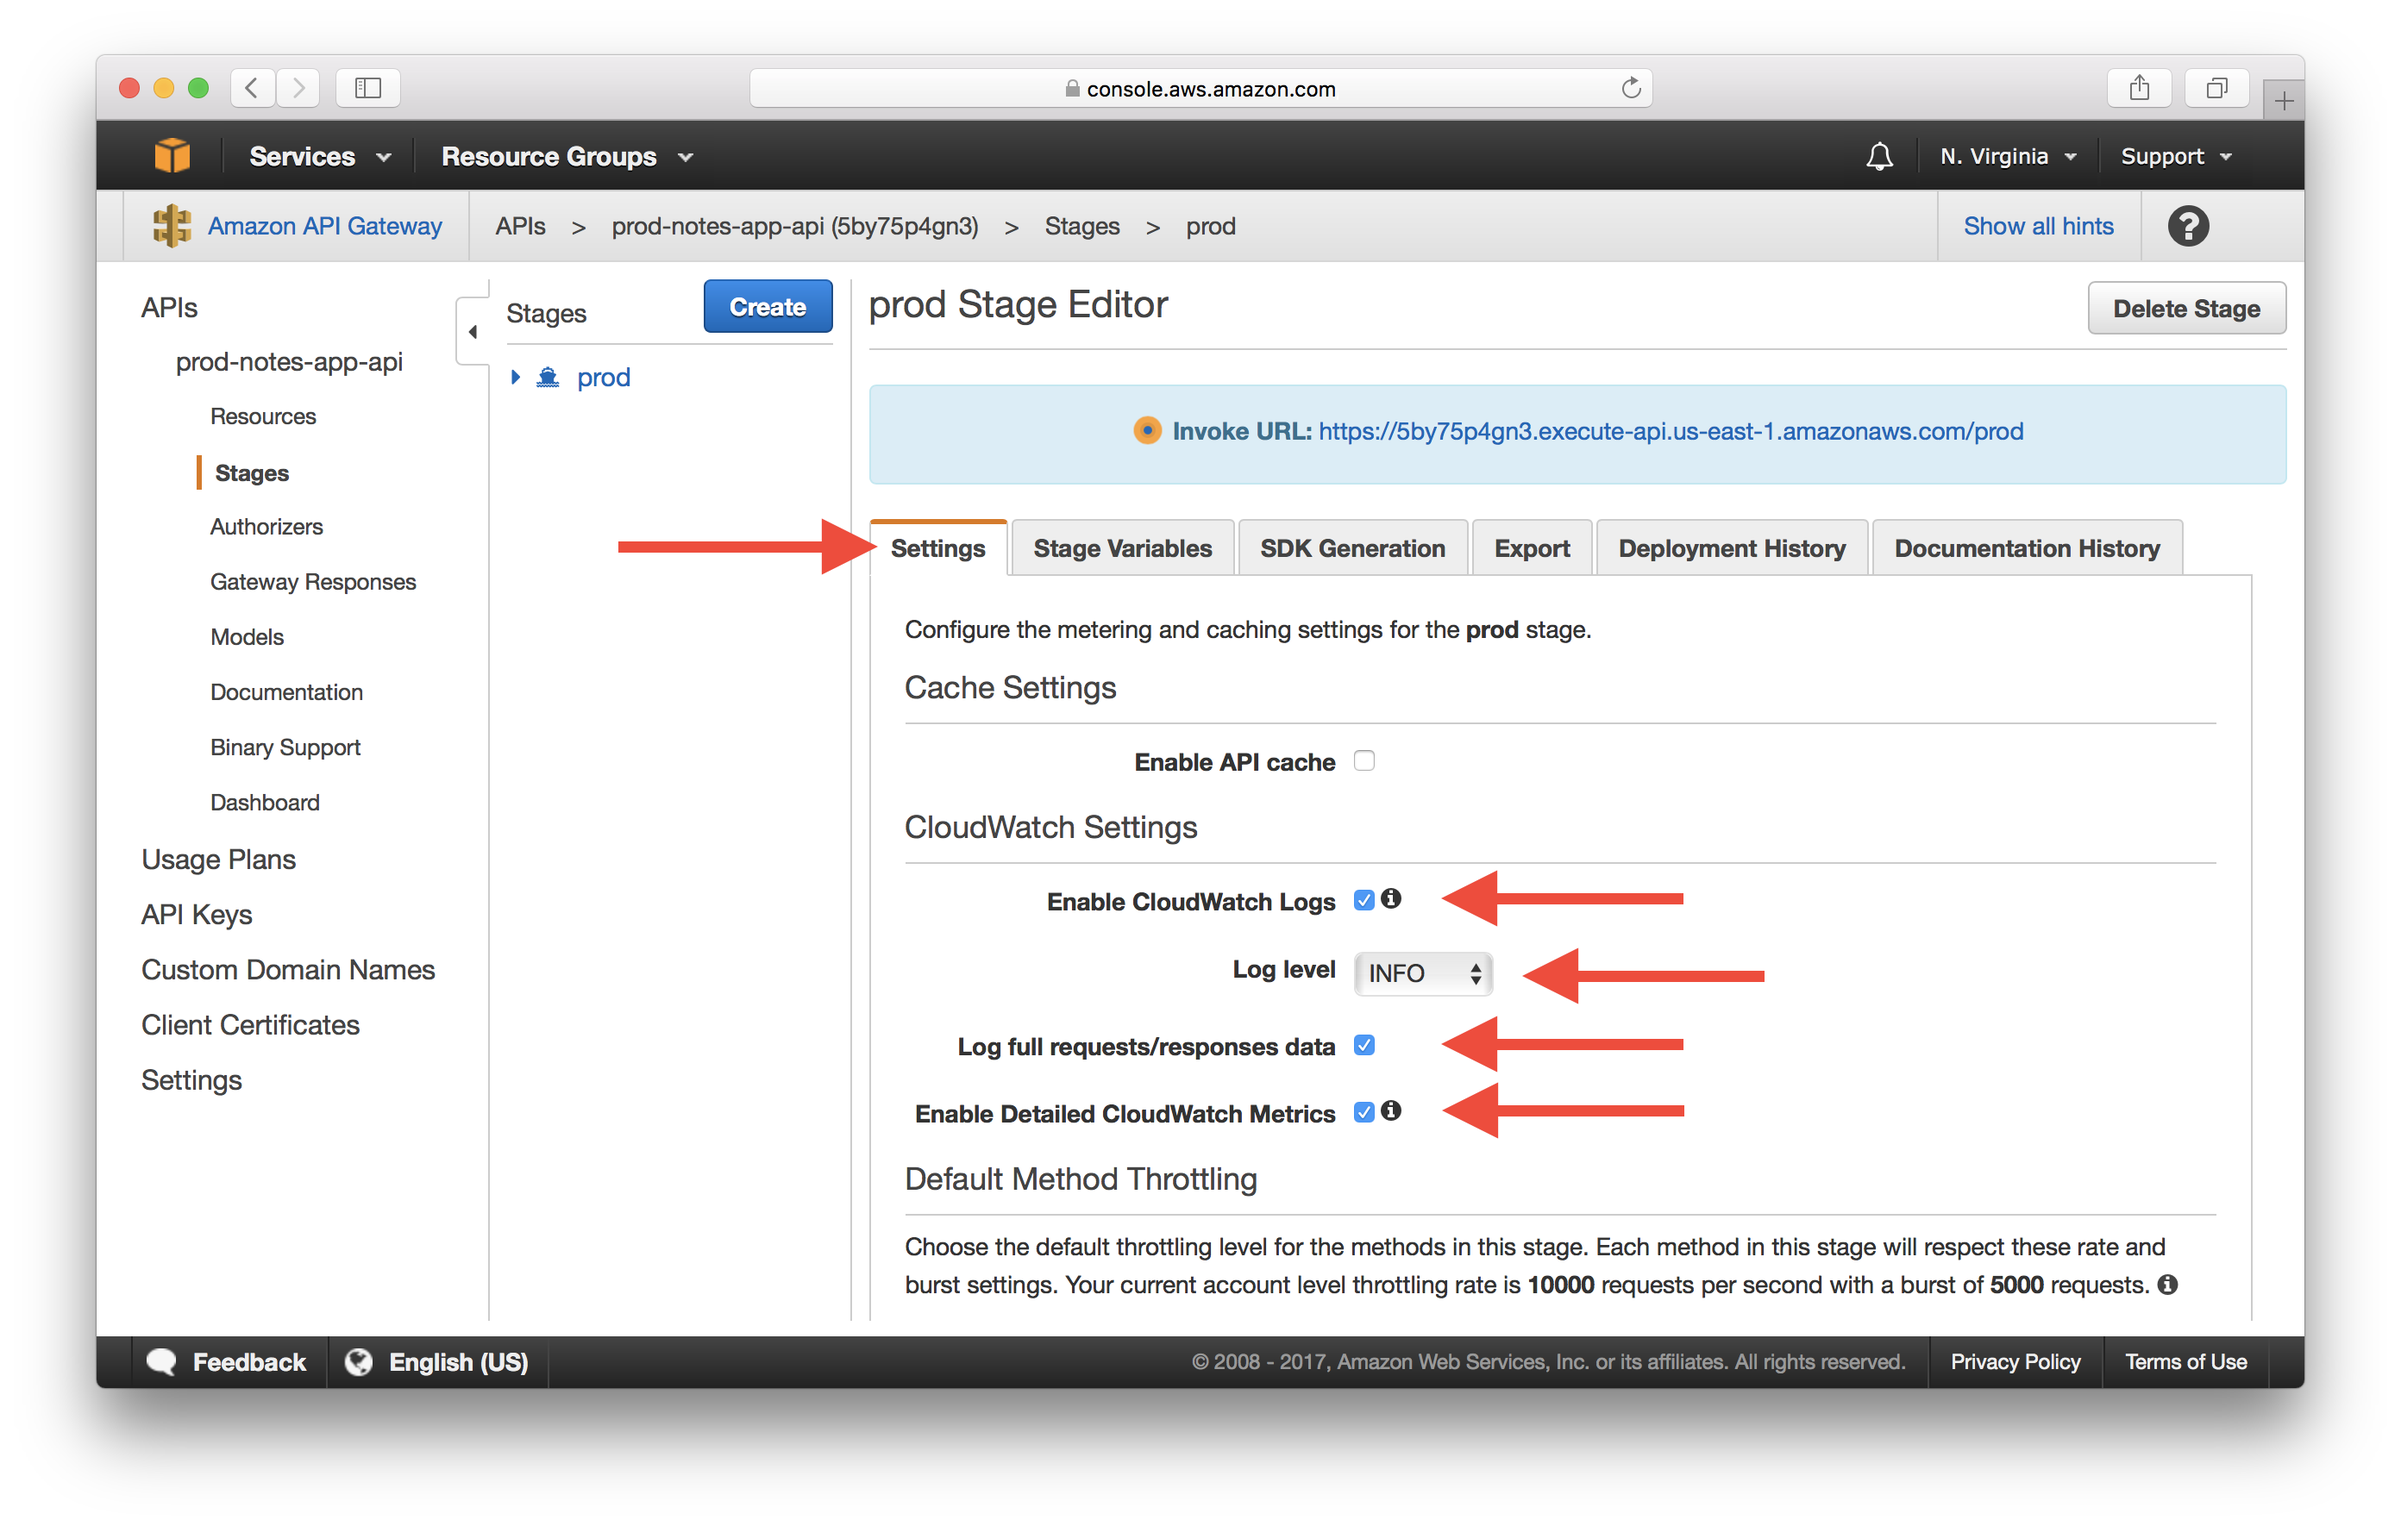
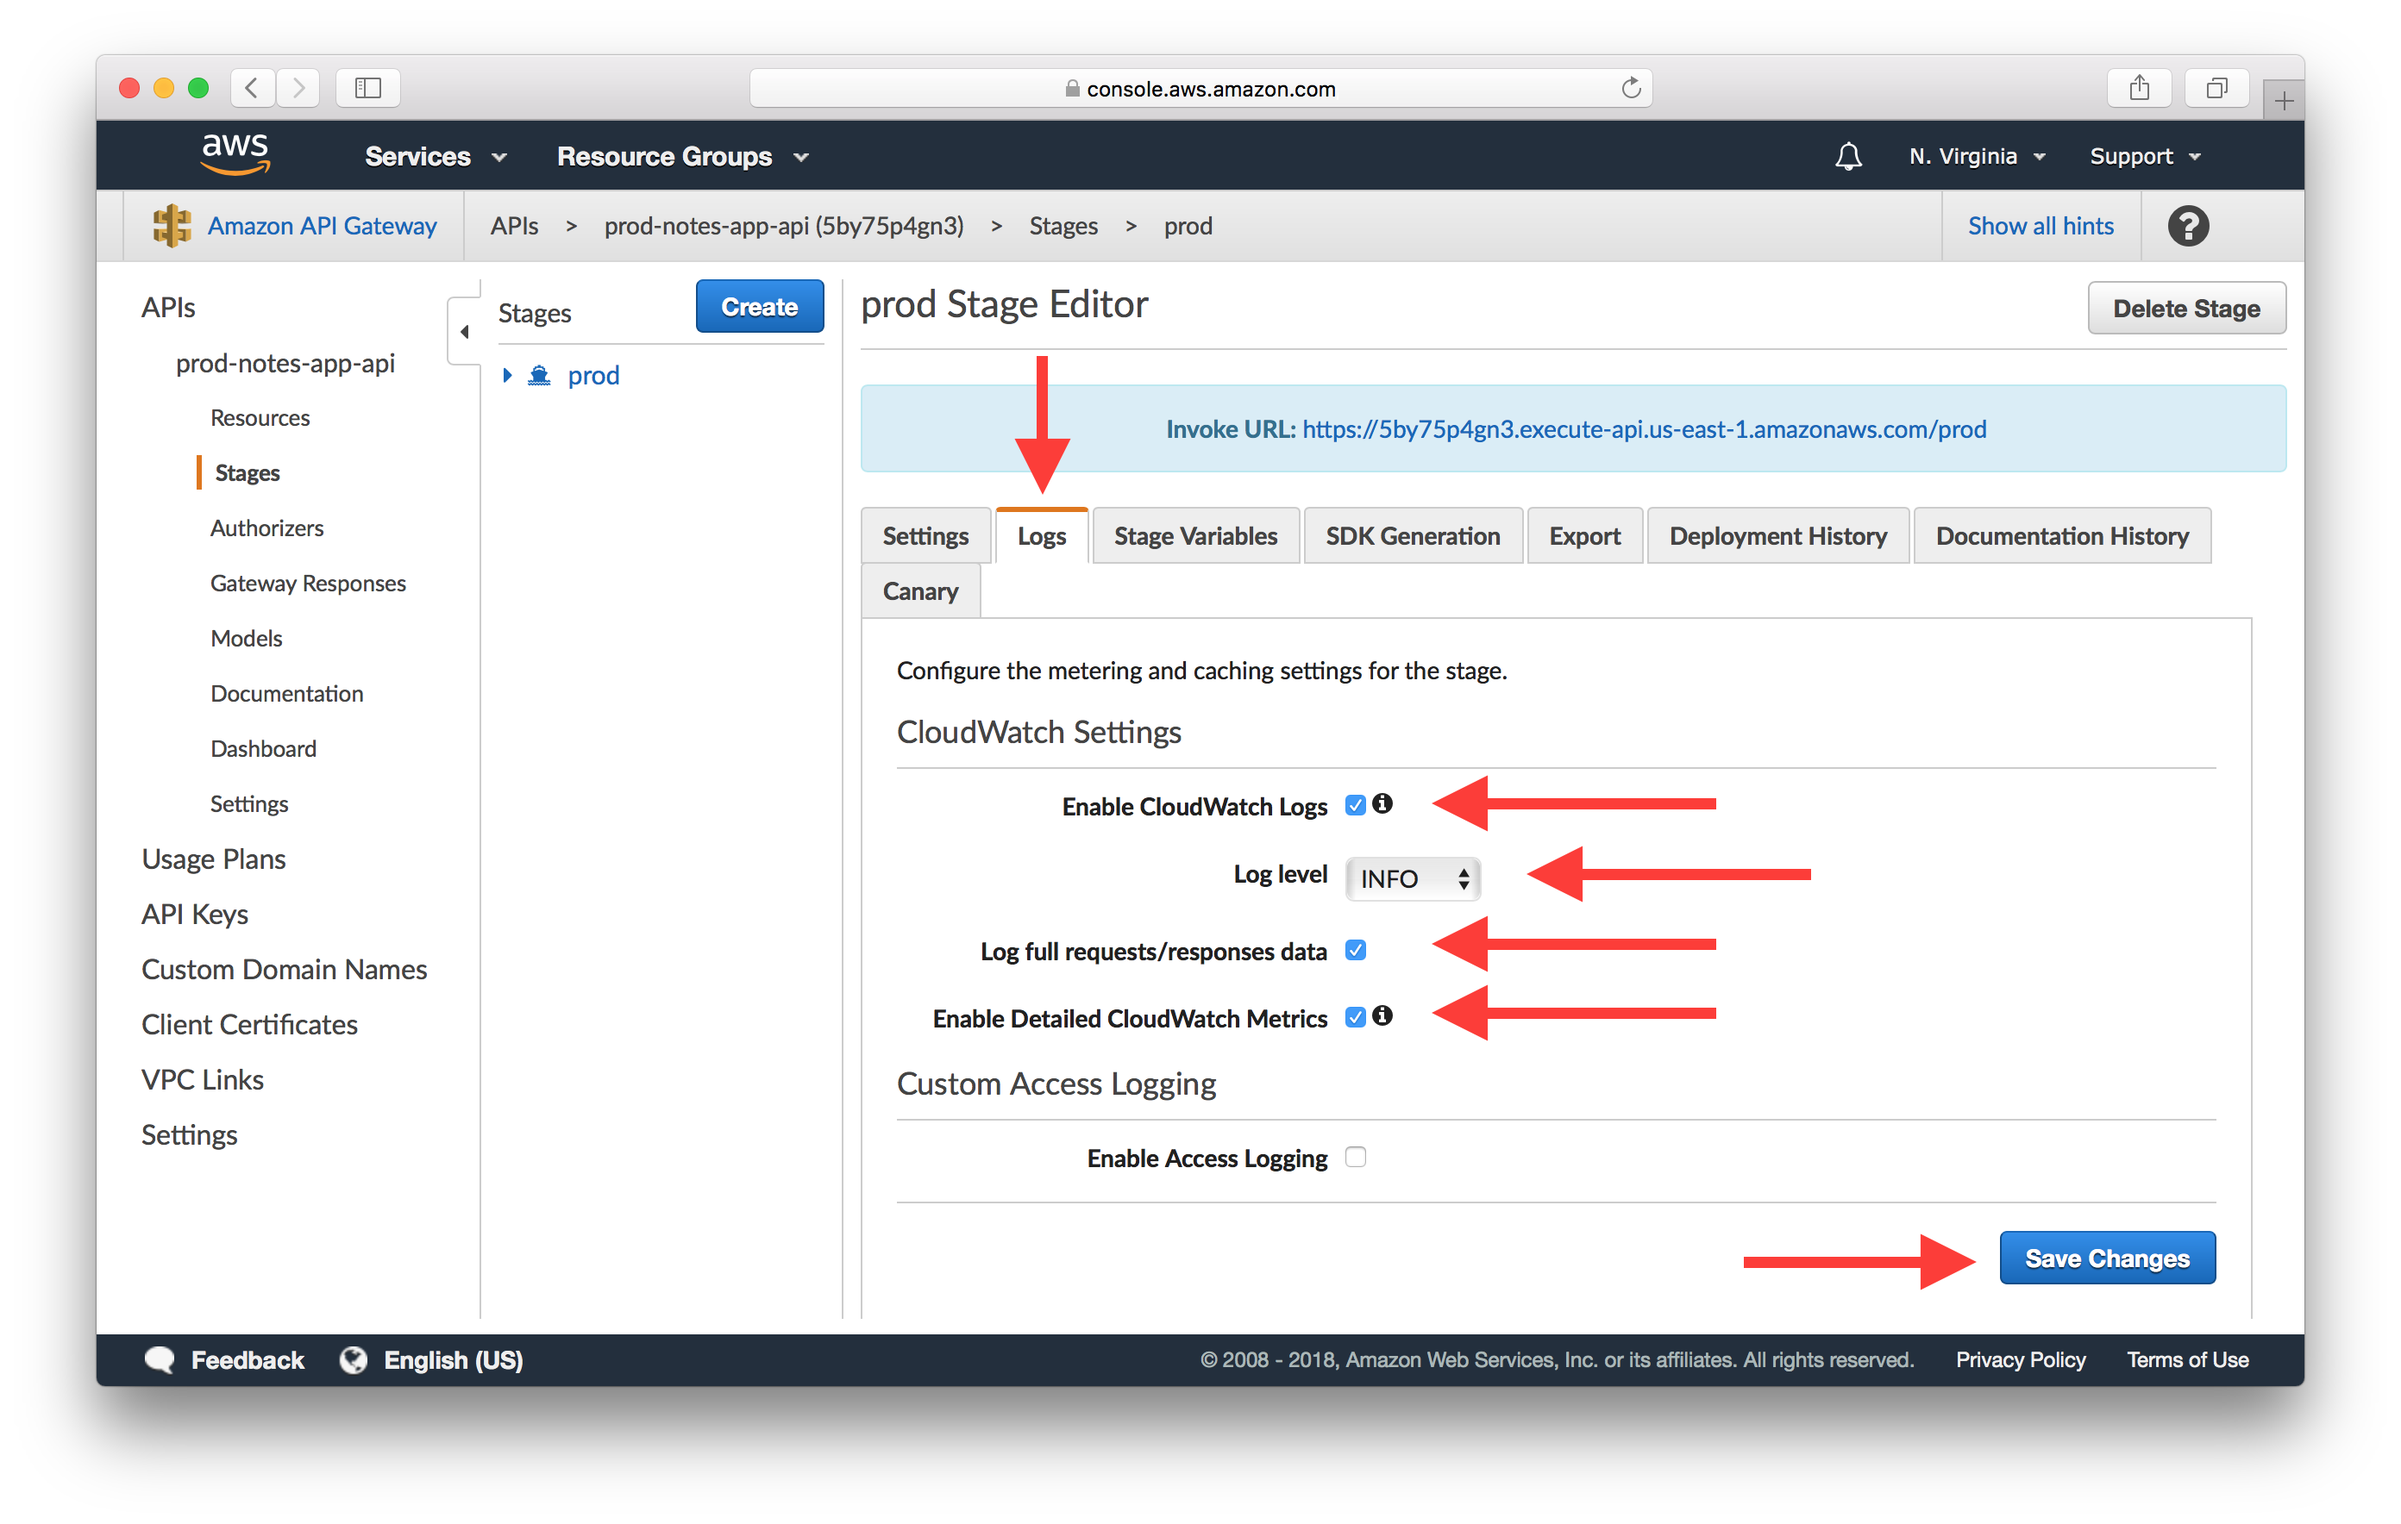
Updating screenshot for API Gateway logs

diff --git a/_chapters/api-gateway-and-lambda-logs.md b/_chapters/api-gateway-and-lambda-logs.md
@@ -91,7 +91,7 @@ Select your API project from the left panel, select **Stages**, then pick the st
 
 ![Select API Gateway Stage Screenshot](/assets/logging/select-api-gateway-stage.png)
 
-In the **Settings** tab:
+In the **Logs** tab:
 
 - Check **Enable CloudWatch Logs**.
 - Select **INFO** for **Log level** to log every request.
@@ -100,11 +100,7 @@ In the **Settings** tab:
 
 ![Fill in API Gateway Logging Info Screenshot](/assets/logging/fill-in-api-gateway-logging-info.png)
 
-Scroll to the bottom of the page and click **Save Changes**.
-
-![Update API Gateway Logging Screenshot](/assets/logging/update-api-gateway-logging.png)
-
-Now our API Gateway requests should be logged via CloudWatch.
+Scroll to the bottom of the page and click **Save Changes**. Now our API Gateway requests should be logged via CloudWatch.
 
 
 ### Enable Lambda CloudWatch Logs
